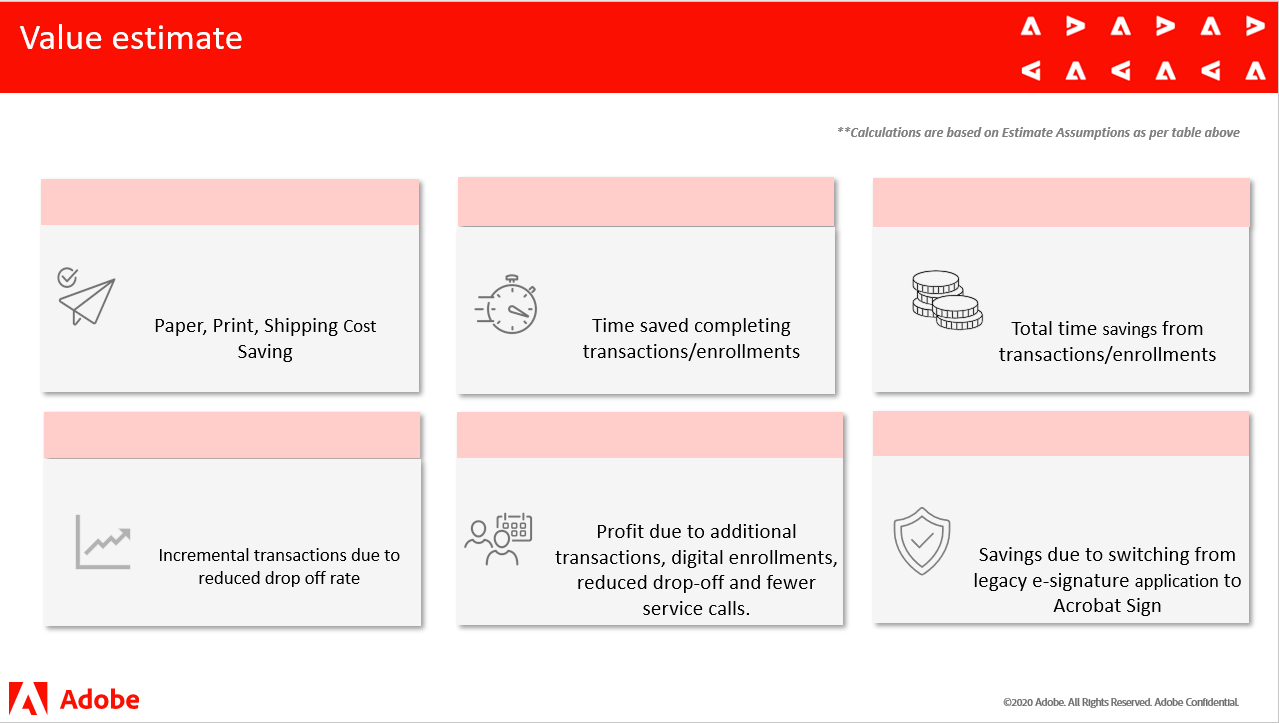
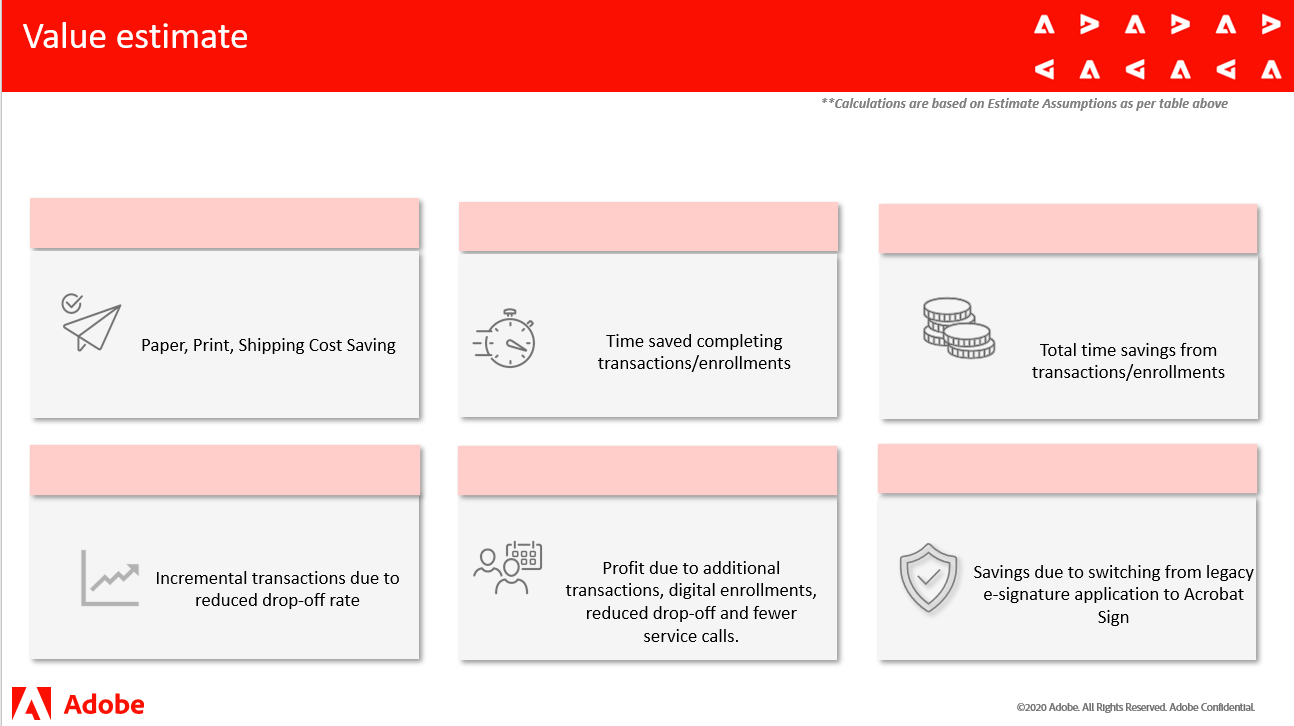
made changes in the PPT heading editable

diff --git a/make_table.js b/make_table.js
@@ -3,32 +3,32 @@ function makeTable(arr)
    
   let pptx = new PptxGenJS();
   let slide = pptx.addSlide();
-  slide.addImage({ path: "PPTimg.png",  w: 10 , h:5.5});
+  slide.addImage({ path: "PPTimg.png",  w: 10 , h:5.55});
 
 
   slide.addText("Total Financial Impact: ", { x: 0.2, y: 1, fontFace: "Arial", fontSize: 18, color: "#FF0000", bold: true, italic: false, underline: false });
-  slide.addText("Sustainability Savings", { x: 0.8, y: 1.55, fontFace: "Arial", fontSize: 13, color: "#000000", bold: false, italic: false, underline: false });
-  slide.addText("Time/Enrollment Savings (hours)", { x: 3.7, y: 1.55, fontFace: "Arial", fontSize: 13, color: "#000000", bold: false, italic: false, underline: false });
-  slide.addText("Time/Enrollment Savings ($)", { x: 7, y: 1.55, fontFace: "Arial", fontSize: 13, color: "#000000", bold: false, italic: false, underline: false });
+  slide.addText("Sustainability Savings", { x: 0.8, y: 1.75, fontFace: "Arial", fontSize: 13, color: "#000000", bold: false, italic: false, underline: false });
+  slide.addText("Time/Enrollment Savings (hours)", { x: 3.7, y: 1.75, fontFace: "Arial", fontSize: 13, color: "#000000", bold: false, italic: false, underline: false });
+  slide.addText("Time/Enrollment Savings ($)", { x: 7, y: 1.75, fontFace: "Arial", fontSize: 13, color: "#000000", bold: false, italic: false, underline: false });
 
-  slide.addText("Increased Transactions", { x: 0.8, y: 3.33, fontFace: "Arial", fontSize: 13, color: "#000000", bold: false, italic: false, underline: false });
-  slide.addText("Customer Experience Value", { x: 3.8, y: 3.33, fontFace: "Arial", fontSize: 13, color: "#000000", bold: false, italic: false, underline: false });
-  slide.addText("Compliance and Legacy Savings", { x: 6.9, y: 3.33, fontFace: "Arial", fontSize: 13, color: "#000000", bold: false, italic: false, underline: false });
+  slide.addText("Increased Transactions", { x: 0.8, y: 3.58, fontFace: "Arial", fontSize: 13, color: "#000000", bold: false, italic: false, underline: false });
+  slide.addText("Customer Experience Value", { x: 3.8, y: 3.58, fontFace: "Arial", fontSize: 13, color: "#000000", bold: false, italic: false, underline: false });
+  slide.addText("Compliance and Legacy Savings", { x: 6.9, y: 3.58, fontFace: "Arial", fontSize: 13, color: "#000000", bold: false, italic: false, underline: false });
 
         slide.addText(arr[1][9], { x: 3, y: 1, fontFace: "Arial", fontSize: 18, color: "#FF0000", bold: true, italic: false, underline: false });
 
-        slide.addText(arr[1][8], { x: 1.2, y: 2.1, fontFace: "Arial", fontSize: 15, color: "#FF0000", bold: false, italic: false, underline: false });
+        slide.addText(arr[1][8], { x: 1.2, y: 2.3, fontFace: "Arial", fontSize: 15, color: "#FF0000", bold: false, italic: false, underline: false });
        
-        slide.addText(arr[1][2], { x: 4.5, y: 2.1, fontFace: "Arial", fontSize: 15, color: "#FF0000", bold: false, italic: false, underline: false });
+        slide.addText(arr[1][2], { x: 4.5, y: 2.3, fontFace: "Arial", fontSize: 15, color: "#FF0000", bold: false, italic: false, underline: false });
        
-        slide.addText(arr[1][4], { x: 7.8, y: 2.1, fontFace: "Arial", fontSize: 15, color: "#FF0000", bold: false, italic: false, underline: false });
+        slide.addText(arr[1][4], { x: 7.8, y: 2.3, fontFace: "Arial", fontSize: 15, color: "#FF0000", bold: false, italic: false, underline: false });
        
 
-        slide.addText(arr[1][3], { x: 1.2, y: 3.8, fontFace: "Arial", fontSize: 15, color: "#FF0000", bold: false, italic: false, underline: false });
+        slide.addText(arr[1][3], { x: 1.2, y: 4.1, fontFace: "Arial", fontSize: 15, color: "#FF0000", bold: false, italic: false, underline: false });
        
-        slide.addText(arr[1][5], { x: 4.4, y: 3.8, fontFace: "Arial", fontSize: 15, color: "#FF0000", bold: false, italic: false, underline: false });
+        slide.addText(arr[1][5], { x: 4.4, y: 4.1, fontFace: "Arial", fontSize: 15, color: "#FF0000", bold: false, italic: false, underline: false });
        
-        slide.addText(arr[1][6]+"/"+arr[1][7], { x: 7.7, y: 3.8, fontFace: "Arial", fontSize: 15, color: "#FF0000", bold: false, italic: false, underline: false });
+        slide.addText(arr[1][6]+"/"+arr[1][7], { x: 7.7, y: 4.1, fontFace: "Arial", fontSize: 15, color: "#FF0000", bold: false, italic: false, underline: false });
        
         
       
